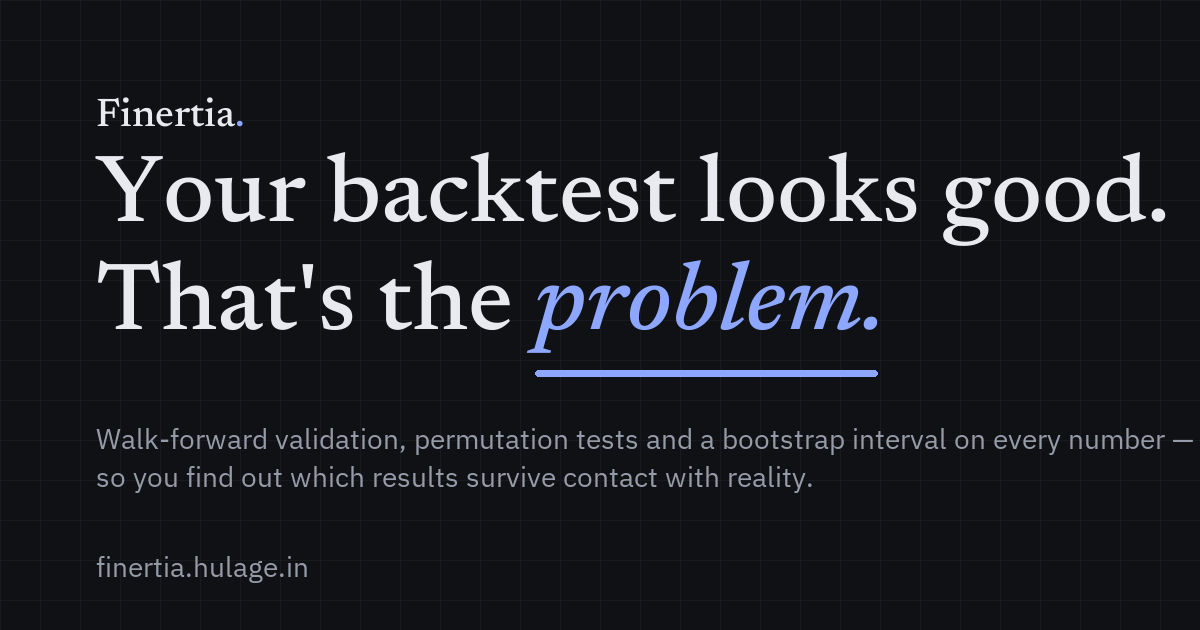
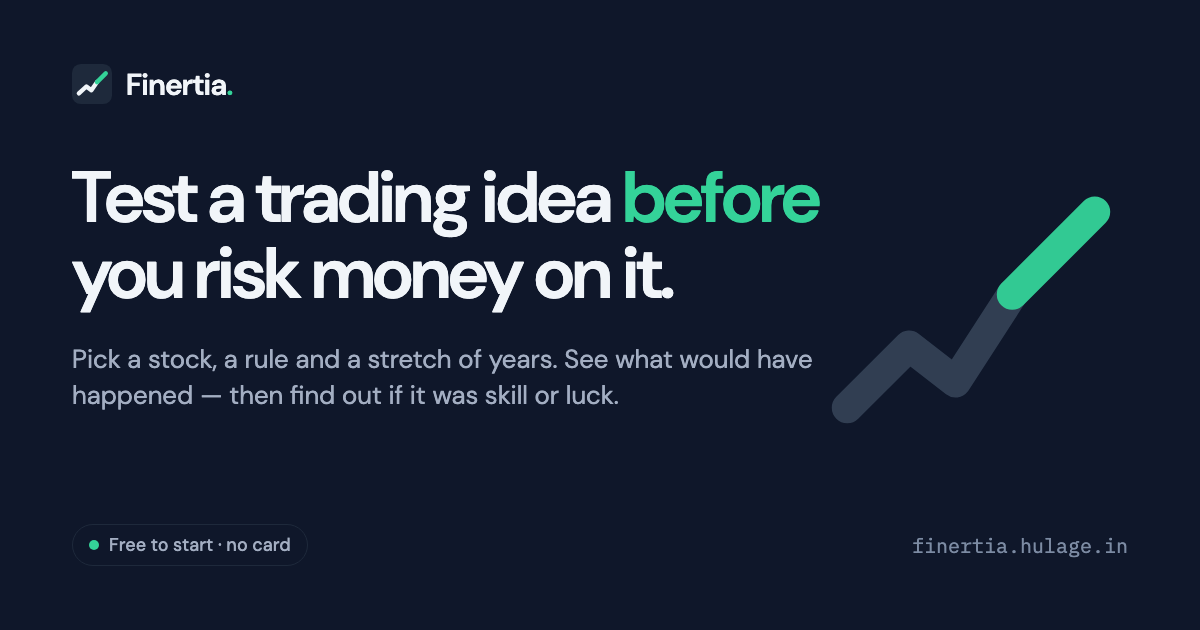
design: og.png share card in Ocean Breeze, with the new mark
The card still carried the notebook-era serif, periwinkle accent and the
old headline. Re-set in DM Sans on ink with the landing headline, the
favicon mark beside the wordmark and the run-with-a-green-tail motif.
Source HTML kept in frontend/design/ with the headless Chrome command so
the next edit is a re-render, not a redraw. og:image:alt updated to match.

diff --git a/frontend/index.html b/frontend/index.html
@@ -39,7 +39,7 @@
     <meta property="og:image" content="https://finertia.hulage.in/og.png" />
     <meta property="og:image:width" content="1200" />
     <meta property="og:image:height" content="630" />
-    <meta property="og:image:alt" content="Finertia — Your backtest looks good. That's the problem." />
+    <meta property="og:image:alt" content="Finertia — Test a trading idea before you risk money on it." />
     <meta name="twitter:card" content="summary_large_image" />
     <meta name="twitter:image" content="https://finertia.hulage.in/og.png" />
     <meta name="twitter:title" content="Test a trading idea before you risk money on it." />

diff --git a/frontend/design/og.html b/frontend/design/og.html
@@ -1,0 +1,8 @@
+<!--
+  Source for public/og.png. Render with headless Chrome at exactly 1200×630
+  (fonts come from Google Fonts, so give it a virtual-time budget):
+
+    "/Applications/Google Chrome.app/Contents/MacOS/Google Chrome" --headless=new \
+      --disable-gpu --hide-scrollbars --window-size=1200,630 --virtual-time-budget=8000 \
+      --screenshot=public/og.png "file://$PWD/design/og.html"
+-->
